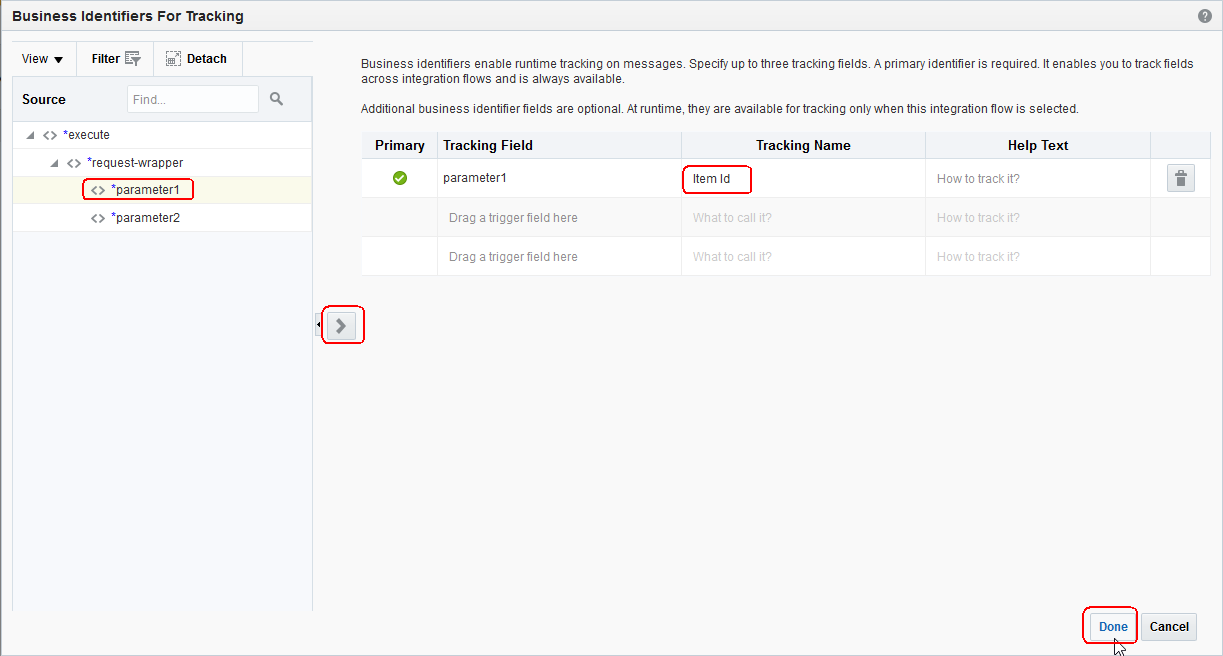
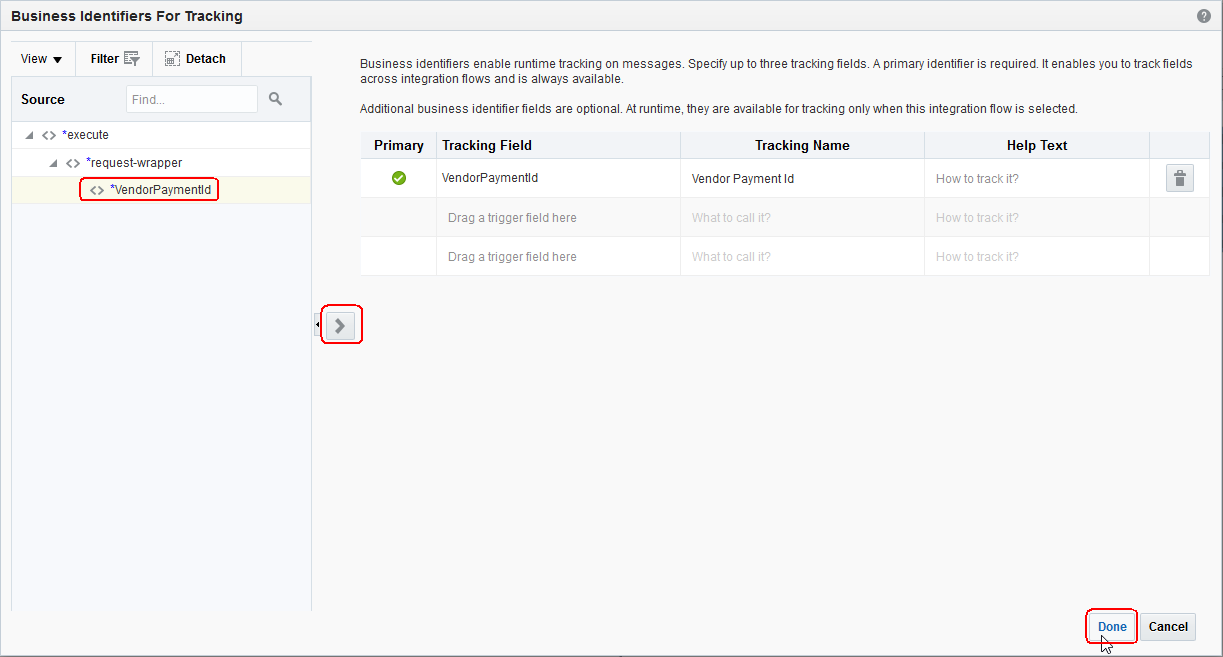
Complete Section 2 of lab 200

diff --git a/workshops/ics-netsuite-workshop/ics200.md b/workshops/ics-netsuite-workshop/ics200.md
@@ -399,15 +399,15 @@ The fields we are going to map are highlighted in the NetSuite Bill Payment scre
 
 ![](images/200/image047a.png)
 
-**2.3.4** To find out how the actual variable display name maps to the business object attribute, we can reference the NetSuite documentation for VendorPayment which can be found here: <a href="http://www.netsuite.com/help/helpcenter/en_US/srbrowser/Browser2016_2/schema/record/vendorpayment.html">http://www.netsuite.com/help/helpcenter/en_US/srbrowser/Browser2016_2/schema/record/vendorpayment.html</href>
+**2.3.4** To find out how the actual variable display name maps to the business object attribute, we can reference the NetSuite documentation for VendorPayment which can be found here: <a href="http://www.netsuite.com/help/helpcenter/en\_US/srbrowser/Browser2016\_2/schema/record/vendorpayment.html">http://www.netsuite.com/help/helpcenter/en_US/srbrowser/Browser2016_2/schema/record/vendorpayment.html</href>
 
 In the documentation, the *Label* column is what shows up in the NetSuite webpage, and the *Name* column is what the business object attribute is called.
 
-Below is a table showing the NetSuite VendorPayment *Labels* with their corresponding business object attribute *Names* and the *Target Variable Name* it needs to be mapped to:
+Below is a table showing the NetSuite UI VendorPayment *Labels* with their corresponding business object attribute *Names* and the *Target Variable Name* it needs to be mapped to:
 
 <table border=2, border-width=2>
   <tr>
-    <th  style="background-color: #008000">Label</th>
+    <th  style="background-color: #008000">NetSuite UI Label</th>
     <th  style="background-color: #008000">Business Object Attribute Name</th>
     <th  style="background-color: #008000">Target Variable Name</th>
   </tr>
@@ -418,9 +418,9 @@ Below is a table showing the NetSuite VendorPayment *Labels* with their correspo
   <tr><td>DATE</td><td>tranDate</td><td>CheckPostingDate</td></tr>
 </table>
 
-**2.3.5** The VendorPayment business object is quite bit with lots of fields.  It can be difficult to scroll through the list of attributes looking for the one you want to map.
+**2.3.5** The VendorPayment business object is quite large with lots of fields.  It can be difficult to scroll through the list of attributes looking for the one you want to map.
 
-To make finding attributes in a large payload easier, the ICS mapping tool has a search box where the attribute can be searched for.
+To make finding attributes in a large payload easier, the ICS mapping tool has a search box where the attribute can be looked up.
 
 **2.3.6** Enter the attribute _entity_ in the search box, then click on the little magnifying glass icon and it will pop that attribute to the top of the Source variable list:
 
@@ -432,7 +432,7 @@ To make finding attributes in a large payload easier, the ICS mapping tool has a
 
 **2.3.8** For each of the values in the table above, search for the Source variable and map it onto the Target Variable Name shown in the table.
 
-**2.3.9** When you are complete, the mapping should match the screenshot below.
+**2.3.9** When you are complete with the other 4 mapppings, the editor should match the screenshot below.
 
 **2.3.10** Click on the _Save_ button to save the mapping.
 
@@ -440,11 +440,11 @@ To make finding attributes in a large payload easier, the ICS mapping tool has a
 
 **2.3.11** Select the _< Exit Mapper_ button to go back to the design canvas.
 
-![](images/200/image048.png)
+![](images/200/image049.png)
 
 **2.3.12** Save the progress of your orchestration by clicking on the *Save* icon in the upper right of the design window
 
-![](images/200/image046a.png)
+![](images/200/image048.png)
 
 ### **2.4**: Add Tracking Variables for the Integration
 
@@ -454,31 +454,33 @@ We want to add the *AccountName* we just mapped as a `Business Identifier`.  Bus
 
 **2.4.2** Click on the `Tracking` button next to the *Save* button to bring up the business identifier editor.
 
-   ![](images/300/image081.png)
+![](images/200/image051.png)
 
 **2.4.3:**	The `Business Identifiers For Tracking` editor will be opened up
 
-**2.4.4** Click on the *AccountName* variable in the Source variable section.  The editor will show the metadata for this variable such as type, path, etc.
+**2.4.4** Click on the *VendorPaymentId* variable in the Source variable section.  The editor will show the metadata for this variable such as type, path, etc.
 
-**2.4.5** Next, click on the `Shuttle Icon` to move the *AccountName* variable over to be a new `Tracking Field`.
+**2.4.5** Next, click on the *Shuttle Icon* to move the `VendorPaymentId` variable over to be a new `Tracking Field`.
 
-**2.4.6** Observe that the *AccountName* variable has now been added as a `Tracking Field`.  The source variable name is also added as the `Tracking Name` by default – since *AccountName* means something and is suitable for people to read in the monitoring tab we’ll keep it. If the comment variable was something random like *C2EF*, we would want to change it and give it a human-readable tracking name.
+**2.4.6** Observe that the `VendorPaymentId` variable has now been added as a `Tracking Field`.  The source variable name is also added as the `Tracking Name` by default and spaces automatically added to the camel-case humps – since `Vendor Payment Id` means something and is suitable for people to read in the monitoring tab we’ll keep it. If the comment variable was something random like `C2EF`, we would want to change it and give it a human-readable tracking name.
 
-**2.4.7** Select the `Done` button now that the new `Business Identifier` has been added.
+**2.4.7** Select the *Done* button now that the new `Business Identifier` has been added.
 
-   ![](images/300/image082.png)
+![](images/100/image052.png)
 
-**2.4.8** Once again, click on the `Save` button to save the tracking changes, then select the **< Exit Integration** button
+**2.4.8** Once again, click on the *Save* button to save the tracking changes
 
-   ![](images/300/image083.png)
+![](images/100/image053.png)
 
-This integration is now complete.  We now need to activate (deploy) it so it can be used.
+**2.4.9** This integration is now complete, select the *< Exit Integration* button
+
+We now need to activate (deploy) the new integration so it can be tested.
 
 ### **2.5**: Activate the Integration
 
-**2.5.1** Click on the *Activate* switch/slider on the right of the `UserXX Create EBS Order` integration.
+**2.5.1** Click on the *Activate* switch/slider on the right of the `UserXX NetSuite Query` integration.
 
-   ![](images/300/image084.png)
+![](images/200/image055.png)
 
 **2.5.2** The `Activate Integration?` dialog will be displayed
 
@@ -486,13 +488,13 @@ This integration is now complete.  We now need to activate (deploy) it so it can
 
 **2.5.4** Now select the *Activate* button to begin activation of the integration.
 
-   ![](images/300/image085.png)
+![](images/200/image056.png)
 
 **2.5.5** The progress bar of the integration activation will move across the `Activate Integration?` dialog box.
 
 **2.5.6** Once the integration is activated you will see that the activation slider now is colored green with a checkmark in it.
 
-   ![](images/300/image088.png)
+![](images/200/image057.png)
 
 ### **2.6**:	Check the Service Endpoint
 
@@ -500,13 +502,17 @@ This integration is now complete.  We now need to activate (deploy) it so it can
 
 **2.6.2** Click on the WSDL link so we can ensure that this integration has an available service endpoint.
 
-   ![](images/300/image086.png)
+![](images/200/image057a.png)
+
+**2.6.3** If this is the first time you have have opened an ICS WSDL in the browser, you may be prompted to enter your username/password for ICS in a pop-up login window.
+
+![](images/200/image058.png)
 
 **2.6.3** The WSDL for you new ICS integration will now be displayed in your browser.
 
 **2.6.4** Copy the WSDL URL into your copy buffer so we can test it in the next lab section.
 
-   ![](images/300/image087.png)
+![](images/200/image059.png)
 
 **2.6.5** Now that we have built and activated an integration and copied it's service endpoint, we can test it with some sample data to make sure it works.
 

diff --git a/workshops/ics-netsuite-workshop/Home.md b/workshops/ics-netsuite-workshop/Home.md
@@ -8,4 +8,5 @@ Times are changing and things are getting simpler in the Cloud! At Oracle we hav
 This workshop will focus on using Oracle Integration Cloud Service (ICS) for integrating to the NetSuite ERP SaaS.  Oracle ICS delivers best in class “Hybrid” Integration. ICS is a simple and powerful integration platform in the cloud to maximize the value of your investments in SaaS and on-premises applications. It includes an intuitive web based integration designer for point and click integration between applications and a rich monitoring dashboard that provides real-time insight into the transactions, all running on a mature runtime platform on Oracle Public Cloud. ICS will help accelerate integration projects and significantly shorten the time-to-market through it's intuitive and simplified designer, an intelligent data mapper, and a library of adapters to connect to various applications.
 
 
-Open the navigation menu using the hamburger icon (<img src="images/menu.svg">) in the menu bar to choose a lab guide and get started.
+Open the navigation menu using the hamburger icon in the menu bar to choose a lab guide and get started
+<img src="images/menu.svg">
